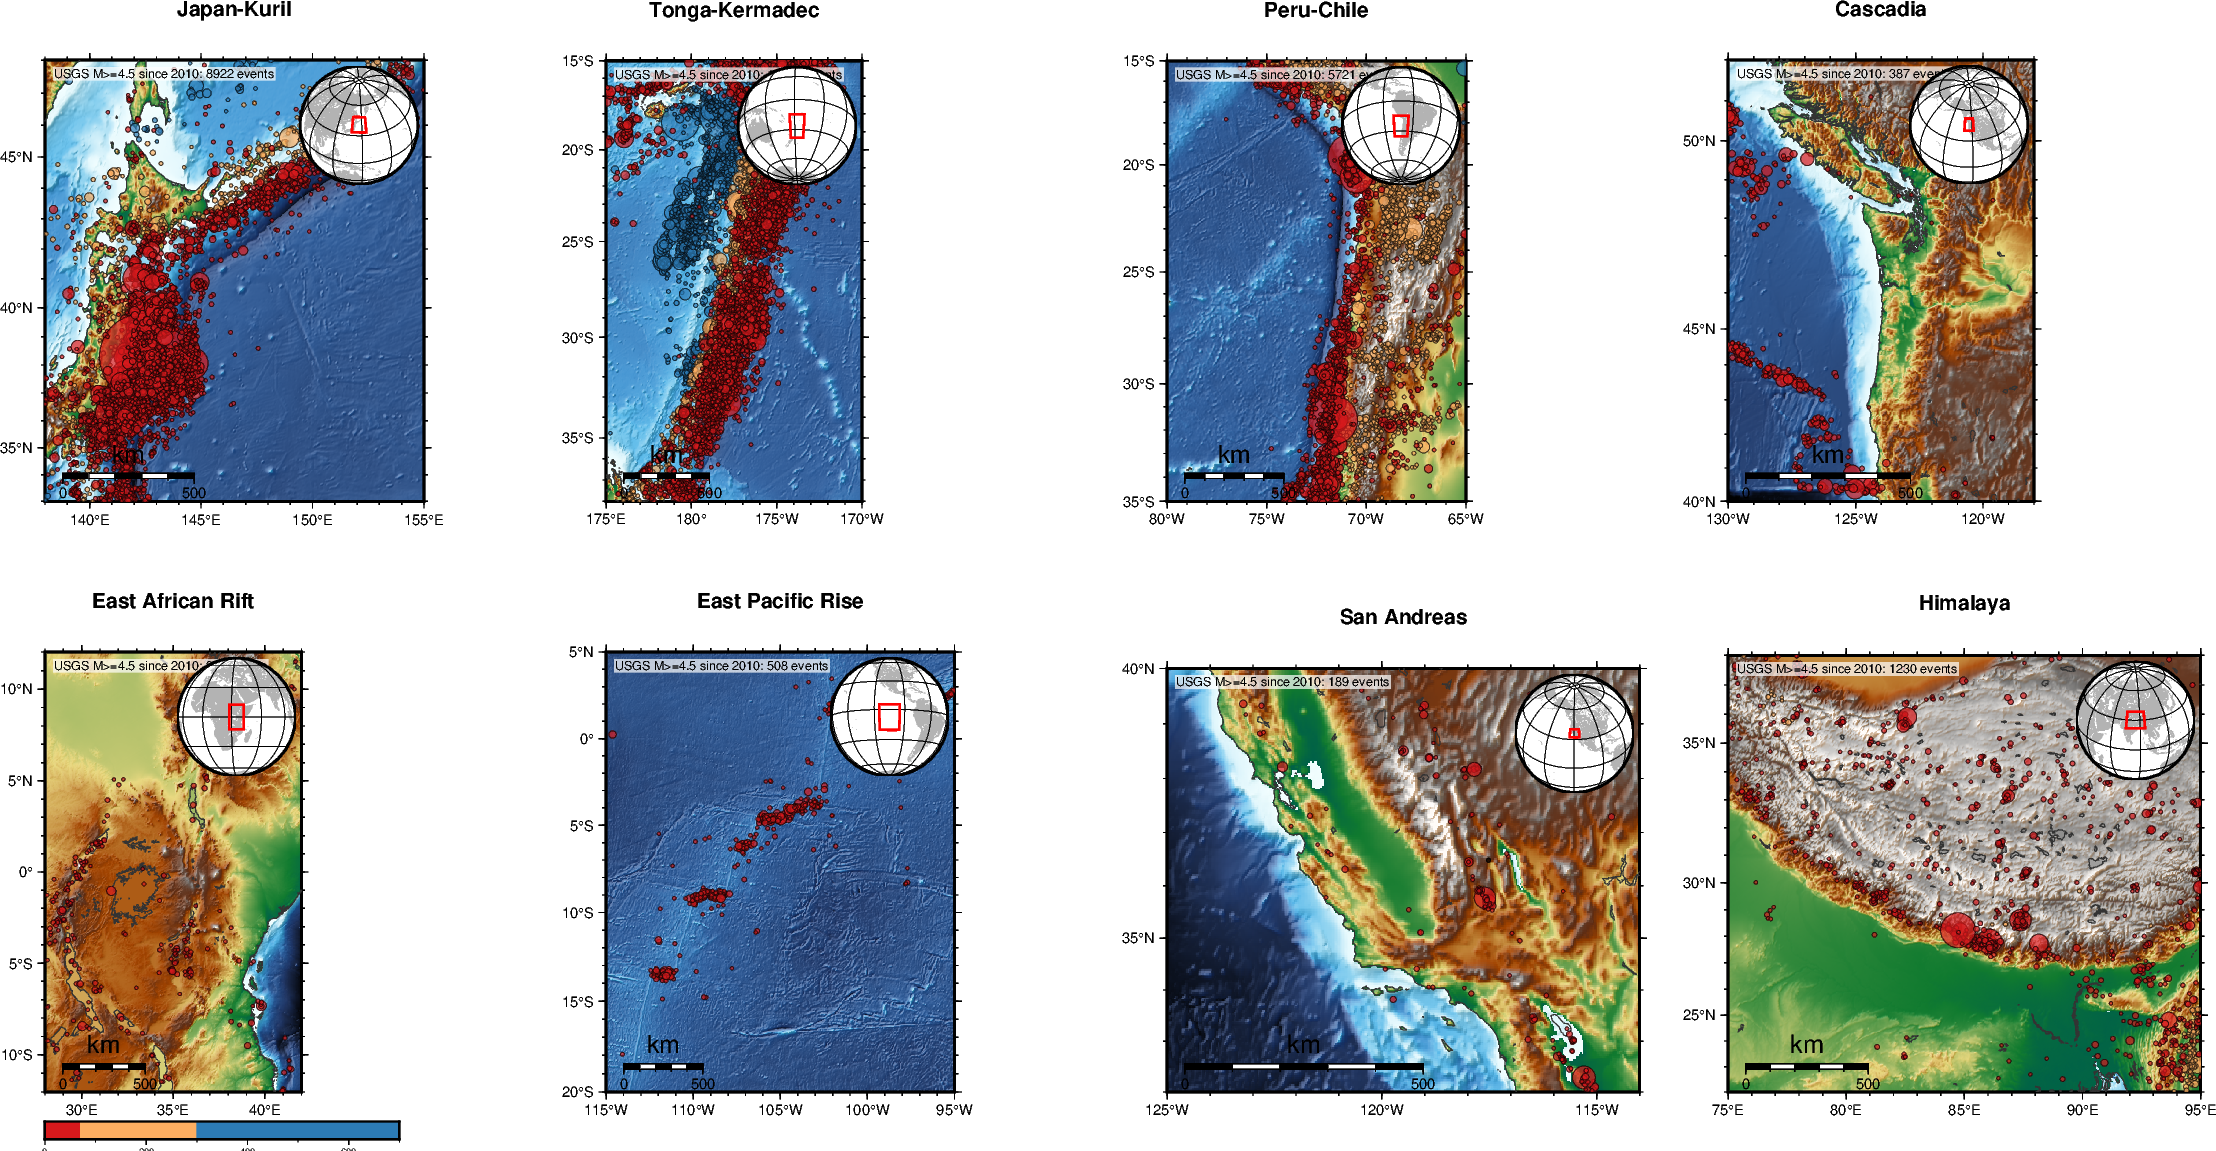
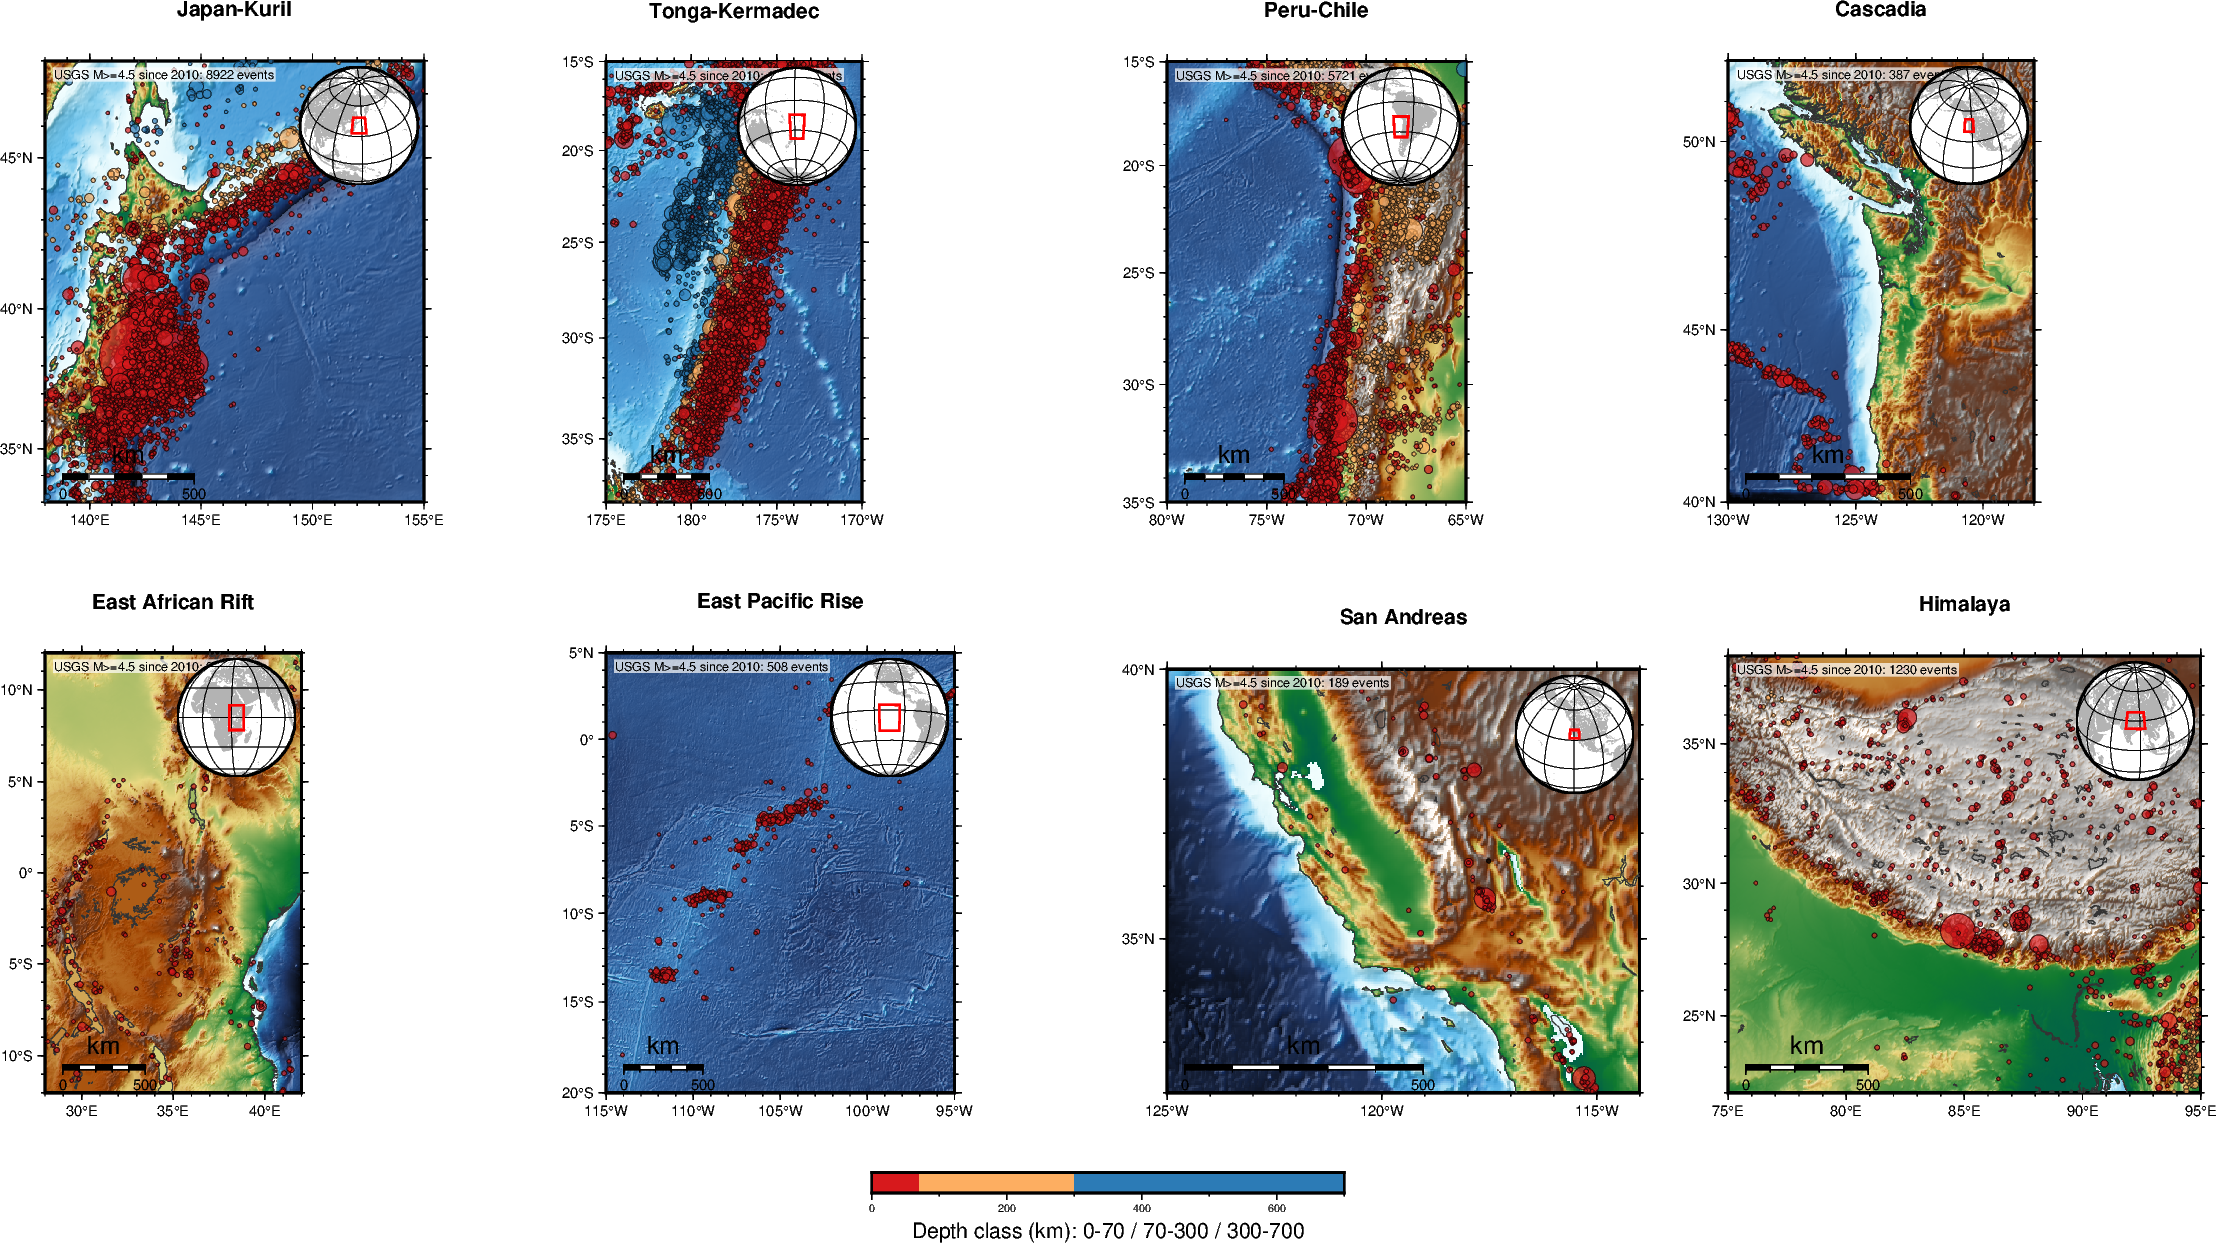
Eight-region map views: center the shared depth colorbar below the panels

diff --git a/examples/05_map_views_eight_regions.py b/examples/05_map_views_eight_regions.py
@@ -65,7 +65,7 @@ for i, (name, region) in enumerate(REGIONS):
     grid = pygmt.datasets.load_earth_relief(resolution="02m", region=region)
     w, h = panel_size(region)
     col, row = i % cols, i // cols
-    fig.shift_origin(xshift=f"f{1 + col * (MAX_W + 1.5)}c", yshift=f"f{1 + (1 - row) * (MAX_H + 2.5)}c")
+    fig.shift_origin(xshift=f"f{1 + col * (MAX_W + 1.5)}c", yshift=f"f{3 + (1 - row) * (MAX_H + 2.5)}c")
 
     fig.grdimage(grid=grid, region=region, projection=f"M{w}c", cmap="geo", shading="+a-45+nt0.5",
                  frame=[f"WSne+t{name}", "a5f1"])
@@ -83,7 +83,8 @@ for i, (name, region) in enumerate(REGIONS):
                  close=True, pen="1p,red")
     print(name, "M>=", minmag, len(quakes))
 
-fig.shift_origin(xshift="f1c", yshift="f0.2c")
-fig.colorbar(cmap=True, position="x0c/0c+w6c/0.3c+h", frame=["a0", "+lDepth class (km): 0-70 / 70-300 / 300-700"])
+# 共用色條：整張圖正下方置中（4 欄總寬約 38 cm；面板從 y=3c 起，底下留給色條）
+fig.shift_origin(xshift="f0c", yshift="f0c")
+fig.colorbar(cmap=True, position="x15c/1.3c+w8c/0.35c+h", frame=["a0", "+lDepth class (km): 0-70 / 70-300 / 300-700"])
 fig.savefig(OUT, dpi=150)
 print("saved", OUT)
